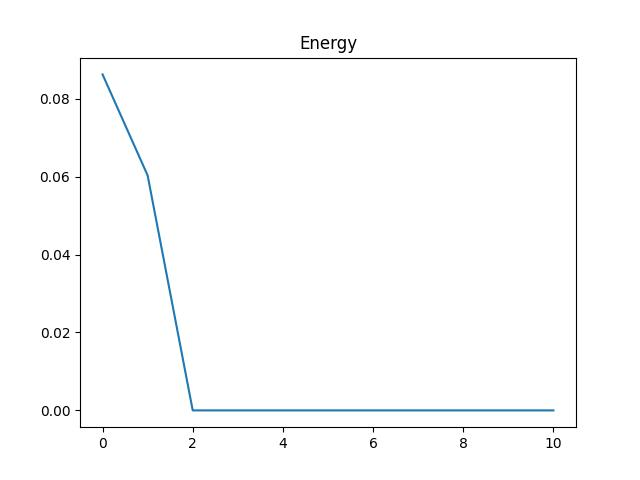
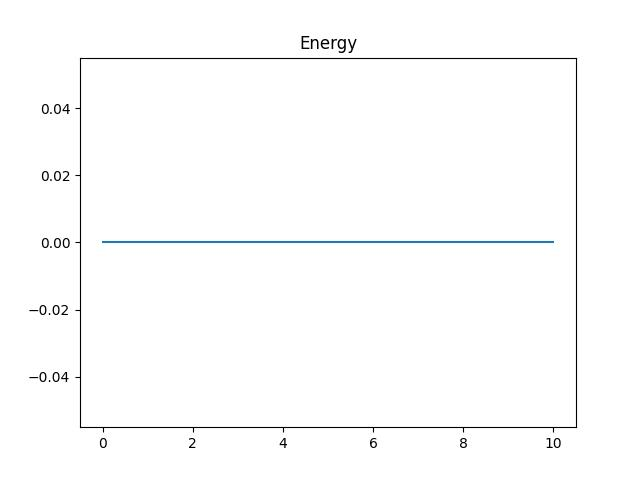
Modifications

diff --git a/energie.py b/energie.py
@@ -42,8 +42,21 @@ if __name__ == '__main__':
     # -- define boundary conditions
     # planar wave defined on top
     
+    def gaussienne(x,sigma,mu):
+     return numpy.exp(-(x-mu)*(x-mu)/(2*sigma*sigma))
+
+    def A1(omega):
+        mu1=numpy.log10(70*2*numpy.pi)
+        sigma1=numpy.log10(100*2*numpy.pi)-numpy.log10(70*2*numpy.pi)
+        return gaussienne(numpy.log10(omega),sigma1,mu1)
+
+    def A2(omega):
+        mu2=numpy.log10(1200*2*numpy.pi)
+        sigma2=numpy.log10(1600*2*numpy.pi)-numpy.log10(1000*2*numpy.pi)
+        return 0.5*gaussienne(numpy.log10(omega),sigma2,mu2)
+    
     def g(x, omega):
-        return numpy.exp(-((x-0.5)**2)/2)/(numpy.sqrt(2*numpy.pi))
+        return A2(omega)*numpy.sinc(omega*x/material[-1])*omega/material[-1]+ A1(omega)*numpy.sinc(omega*(x-0.5)/material[-1])*omega/material[-1]
     
     f_dir[:, :] = 0.0
     for j in range(N):
@@ -80,7 +93,7 @@ if __name__ == '__main__':
             if processing.is_on_robin_boundary(domain_omega[i,j]):
                 chi[i,j] = 1
             
-    omega = numpy.linspace(10, 400, 100)
+    omega = numpy.linspace(100, 4000, 100)
     energie = []
     for elem in omega:
         for j in range(N):
@@ -90,8 +103,9 @@ if __name__ == '__main__':
         u = processing.solve_helmholtz(domain_omega, spacestep, elem, f, f_dir, f_neu, f_rob, beta_pde, alpha_pde, alpha_dir, beta_neu, beta_rob, alpha_rob)
         energie.append(demo_control_polycopie2023.compute_objective_function(domain_omega, u, spacestep))
 
-    plt.plot(omega, numpy.log(energie))
-    plt.title('Graphe de $\log(J(\chi))$ en fonction de $\omega$')
+    plt.plot(omega, energie, 'x')
+    plt.plot(omega, energie)
+    plt.title('Graphe de $J(\chi)$ en fonction de $\omega$')
     plt.xlabel('Fréquence $\omega$')
-    plt.ylabel('Énergie $\log(J(\chi))$')
+    plt.ylabel('Énergie $J(\chi)$')
     plt.show()

diff --git a/compute_alpha.py b/compute_alpha.py
@@ -21,8 +21,7 @@ def compute_alpha(omega, material):
     w is called circular frequency
     f is called frequency
     """
-    # Material = [phi, gamma_p, sigma, rho_0, alpha_h, c_0]
-    # Birch LT
+    
     phi = material[0]  # porosity
     gamma_p = material[1]
     sigma = material[2]  # resitivity
@@ -70,8 +69,21 @@ def compute_alpha(omega, material):
         return complex(real, im)
 
 
+    def gaussienne(x,sigma,mu):
+     return numpy.exp(-(x-mu)*(x-mu)/(2*sigma*sigma))
+
+    def A1(omega):
+        mu1=numpy.log10(70*2*numpy.pi)
+        sigma1=numpy.log10(100*2*numpy.pi)-numpy.log10(70*2*numpy.pi)
+        return gaussienne(numpy.log10(omega),sigma1,mu1)
+
+    def A2(omega):
+        mu2=numpy.log10(1200*2*numpy.pi)
+        sigma2=numpy.log10(1600*2*numpy.pi)-numpy.log10(1000*2*numpy.pi)
+        return 0.5*gaussienne(numpy.log10(omega),sigma2,mu2)
+    
     def g(x, omega):
-        return numpy.exp(-((x-0.5)**2)/2)/(numpy.sqrt(2*numpy.pi))
+        return A2(omega)*numpy.sin(omega*x/material[-1])/x + A1(omega)*numpy.sin(omega*(x-0.5)/material[-1])/(x-0.5)
     
     y = numpy.linspace(0, 1, 1000)
     N = 100
@@ -232,7 +244,7 @@ def run_plot_alpha(material):
 
 
 def run():
-    material = 'BIRCHLT'
+    material = [0.529, 7.0/5.0, 151429.0, 1.2, 1.37, 340.0] #'BIRCHLT'
     run_compute_alpha(material)
     run_plot_alpha(material)
     return

diff --git a/demo_control_polycopie2023.py b/demo_control_polycopie2023.py
@@ -340,9 +340,23 @@ if __name__ == '__main__':
     # ----------------------------------------------------------------------
     # -- define boundary conditions
     # planar wave defined on top
-    omega=1
+    omega = 4000
+    
+    def gaussienne(x,sigma,mu):
+     return numpy.exp(-(x-mu)*(x-mu)/(2*sigma*sigma))
+
+    def A1(omega):
+        mu1=numpy.log10(70*2*numpy.pi)
+        sigma1=numpy.log10(100*2*numpy.pi)-numpy.log10(70*2*numpy.pi)
+        return gaussienne(numpy.log10(omega),sigma1,mu1)
+
+    def A2(omega):
+        mu2=numpy.log10(1200*2*numpy.pi)
+        sigma2=numpy.log10(1600*2*numpy.pi)-numpy.log10(1000*2*numpy.pi)
+        return 0.5*gaussienne(numpy.log10(omega),sigma2,mu2)
+    
     def g(x, omega):
-        return numpy.exp(-((x-0.5)**2)/2)/(numpy.sqrt(2*numpy.pi))
+        return A2(omega)*numpy.sin(omega*x/material[-1])+ A1(omega)*numpy.sin(omega*(x-0.5)/material[-1])
     
     f_dir[:, :] = 0.0
     for j in range(N):
